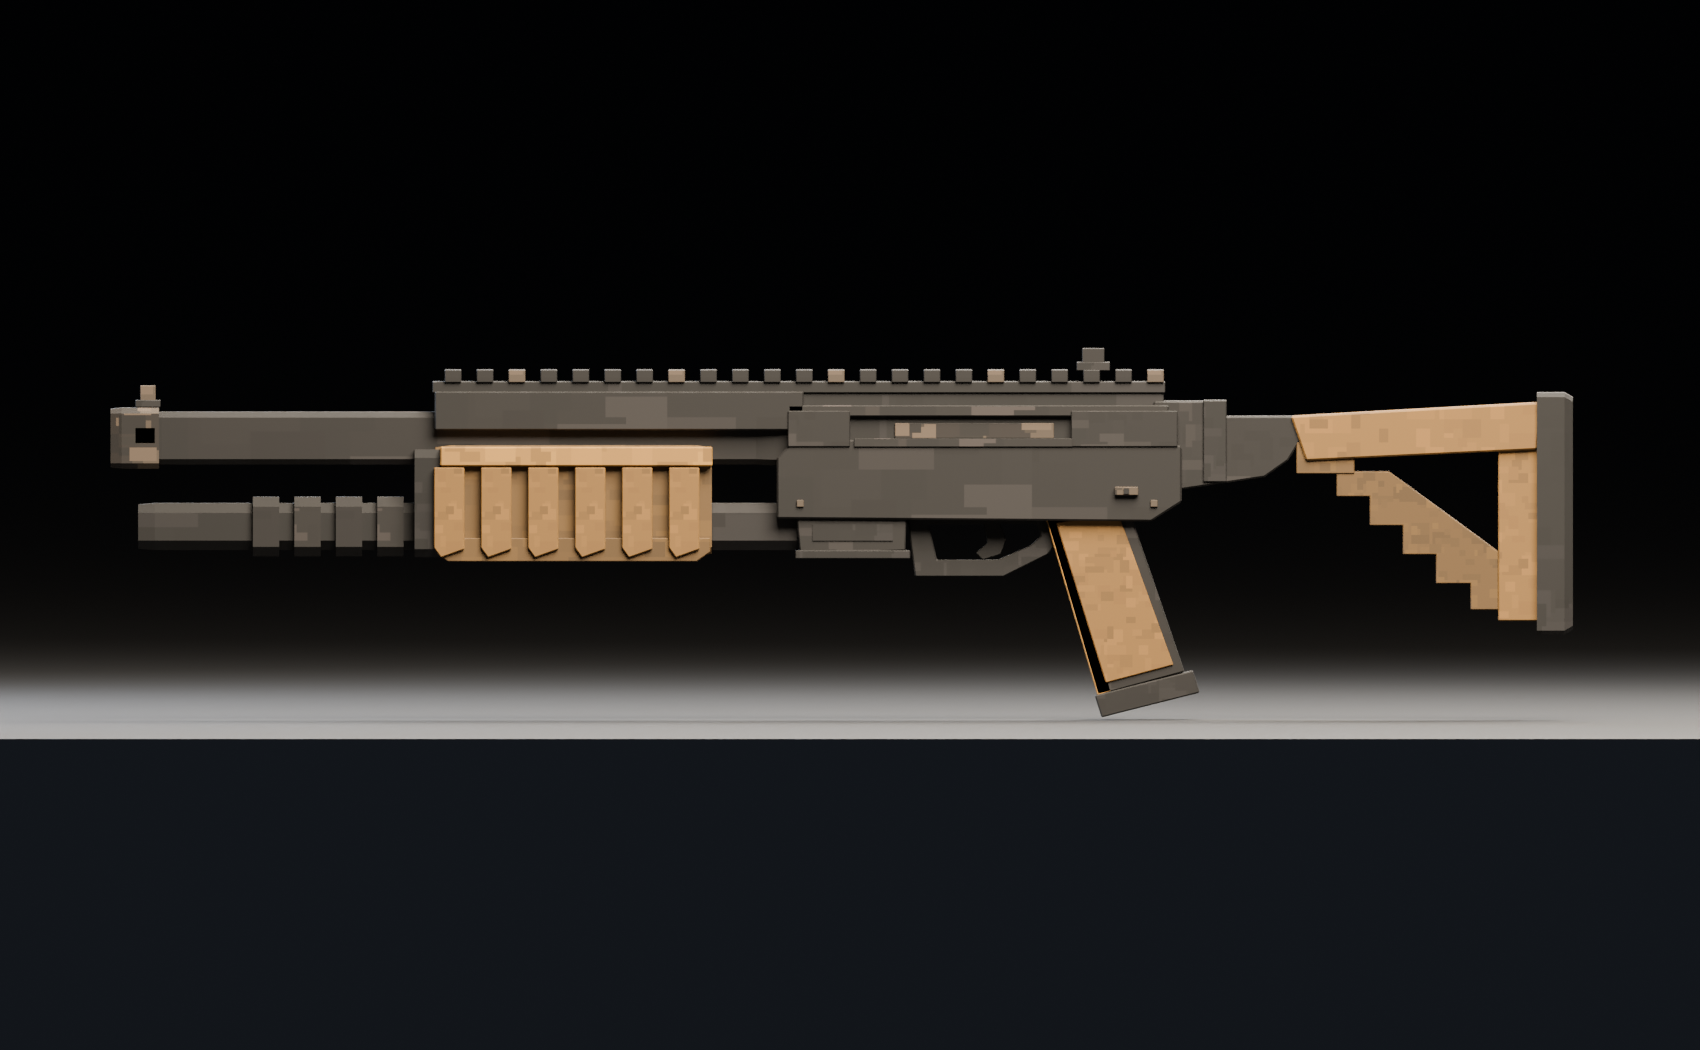
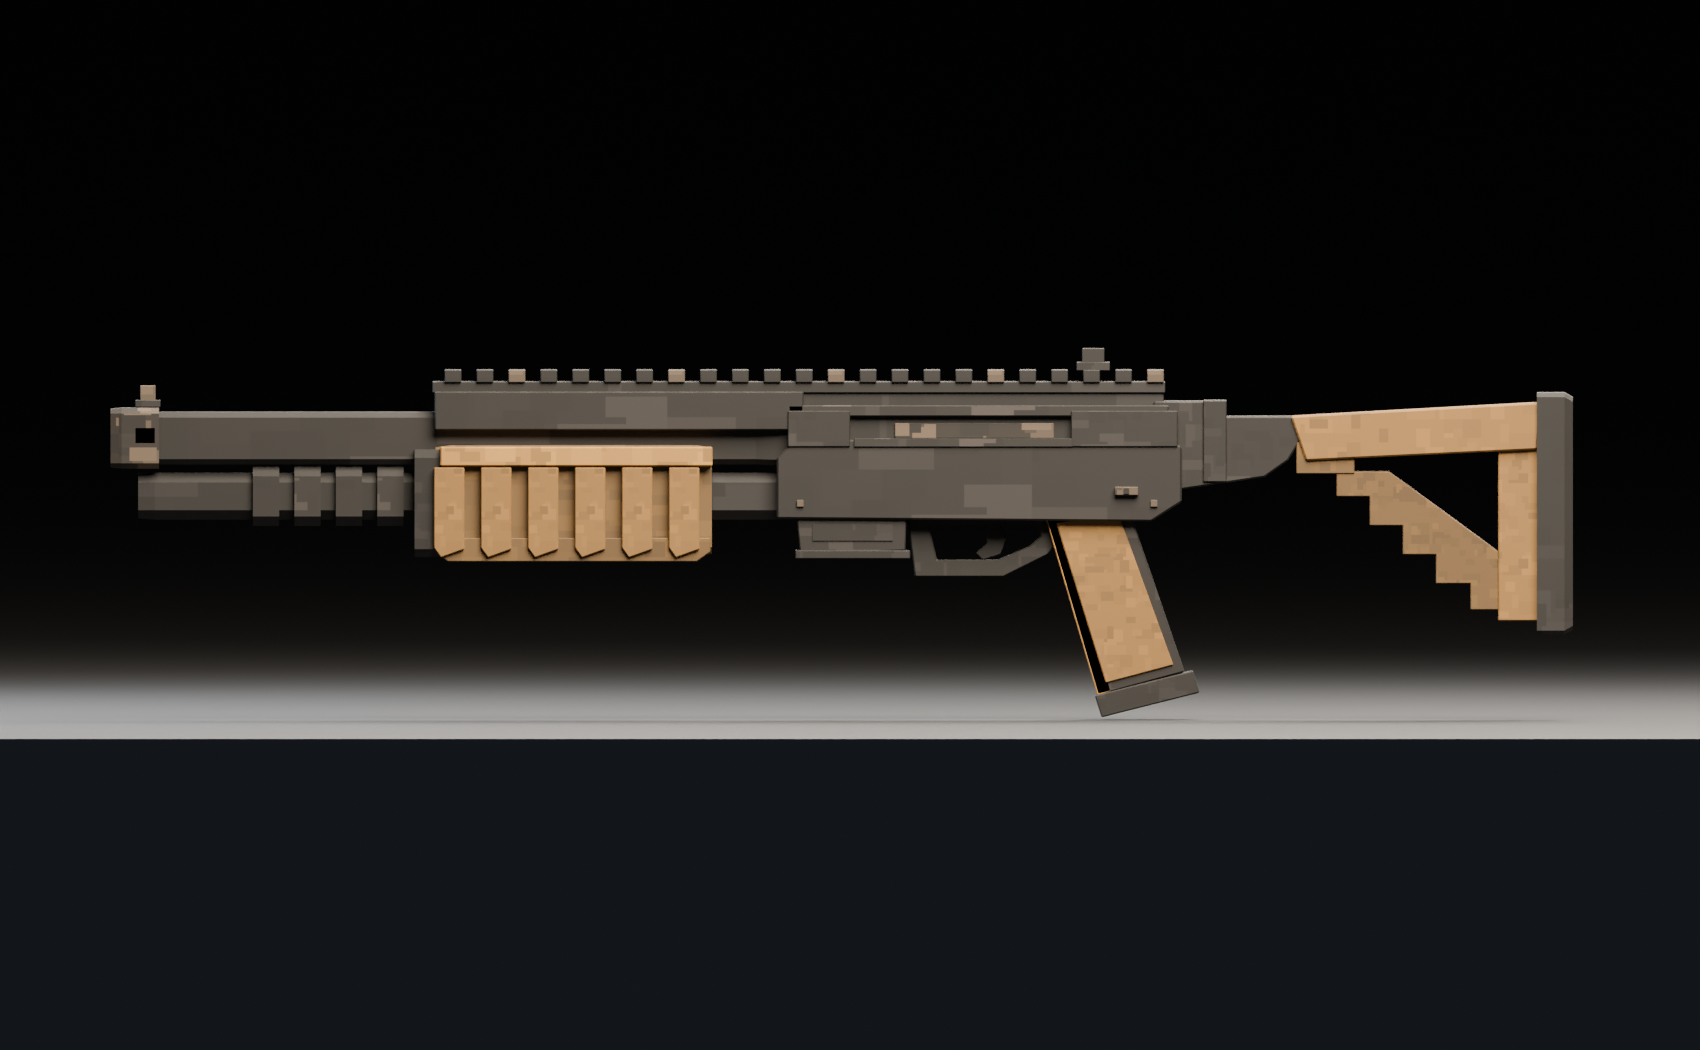
chore(project): apply changes to 7 project files
Modified: 7.
Text lines: +10 / -4; binary files: 2.
- Modify: "blender/weapons/shotgun_sand_block_v1/README.md"
- Modify: "blender/weapons/shotgun_sand_block_v1/review/detail_stock_grip.png" (binary)
- Modify: "blender/weapons/shotgun_sand_block_v1/review/opposite.png" (binary)
- Modify: "blender/weapons/shotgun_sand_block_v1/validation.json"
- Modify: "blender/weapons/showcase/README.md"
- Modify: "blender/weapons/showcase/Weapon_Showcase.blend"
- Modify: "blender/weapons/showcase/weapon_manifest.json"

Changed region(s): [[0.0624, 0.4267, 0.2494, 0.5181], [0.4053, 0.4267, 0.4676, 0.5181]]

diff --git a/blender/weapons/showcase/README.md b/blender/weapons/showcase/README.md
@@ -1,5 +1,7 @@
 # Permanent Weapon Showcase
 
+**2026-10-19 — Sand Block shotgun tube spacing:** the same Pending shotgun now raises the lower tube and its four collars together by22mm, with the bridge refitted. Saved geometry has1.5mm clearance at the collars and6mm between the bare tubes, following the user's closer-spacing reference. Previous source is backed up under `.validation/shotgun_sand_block_close_tubes_20261019/`; other sources, markers and approval records are preserved.
+
 **2026-10-19 — Tactical Sand Block shotgun:** [new reference shotgun](../shotgun_sand_block_v1/README.md) is registered Pending and selected by default in this same library. It has a stepped open sand stock, grooved sand pump, graphite receiver/dual tubes, a long block rail and four red/brass shells in a side saddle. Six active models; previous sources and archived records are preserved. The user's preceding “ok tốt rồi” records Pistol Sand Block V1 as visually Approved in metadata only; no gameplay integration or source edits.
 
 **2026-10-19 — Pistol Sand Block V1 detail review:** the same Pending pistol now has stronger flat graphite pixel clusters, a stepped rear slide roof, a lower barrel hood with a narrow warm crown, a straighter stepped trigger, and connected faceted grip panels seated on a wider magazine floorplate. Latest feedback increases the size and light/dark contrast of the graphite patches for clearer visibility. Dimensions and markers are unchanged. [Source and eight inspection views](../pistol_sand_block_v1/README.md); previous pistol/library are backed up under `.validation/pistol_sand_block_detail_20261019/` and `.validation/pistol_sand_block_dark_texture_20261019/`. Reopen an existing viewer to load the saved refinement.

diff --git a/blender/weapons/shotgun_sand_block_v1/README.md b/blender/weapons/shotgun_sand_block_v1/README.md
@@ -15,3 +15,5 @@ Chưa tạo animation, gameplay hoặc optic gắn trên rail. Các chi tiết p
 Baseline, bản dựng đầu, backup thư viện và log kiểm tra: `.validation/shotgun_sand_block_v1_20261019/` tại gốc dự án. Không tự thêm hoặc commit Git.
 
 Lượt kiểm tra cận cuối sửa hai ô bên hông đầu nòng thành hốc sâu thật, thay miếng đen nổi. Kiểm tra raycast xác nhận hốc bên sâu khoảng 4 mm từ viền ngoài, không làm kín lòng nòng. Bản trước lượt này được giữ trong `muzzle_refinement/` của baseline. Nguồn và GLB khớp kích thước/texture; thư viện được mở lại và thử đủ 90 tổ hợp mẫu/chế độ/góc nhìn.
+
+Theo phản hồi tiếp theo ngày 2026-10-19, ống dưới và cả bốn vòng ôm được nâng 22 mm để sát nòng trên hơn; khớp nối giữa hai ống được thu gọn tương ứng. Raycast đo khoảng hở 1.5 mm tại vòng ôm và 6 mm ở đoạn ống trơn. Nòng trên, tay bơm, báng, thân, giá đạn, texture, kích thước tổng và các marker được giữ nguyên. Bản trước chỉnh khoảng cách và log được lưu trong `.validation/shotgun_sand_block_close_tubes_20261019/`.
